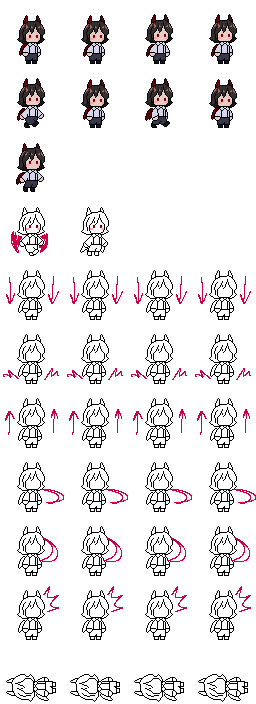
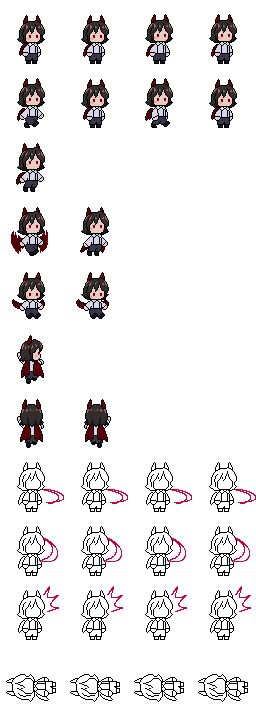
final classes, better player animations

diff --git a/src/entities/Player.java b/src/entities/Player.java
@@ -118,11 +118,10 @@ public class Player extends MovingEntity implements Attackable {
 				} else {
 					setAnimation(JUMPING2);
 				}
-			} else {
-				setAnimation(FALLING);
-			}
+			} else setAnimation(FALLING);
 		} else if (climbing) {
-			setAnimation(CLIMBING);
+			if (moving)setAnimation(CLIMBING);
+			else setAnimation(ON_LADDER);
 		} else if (moving) {
 			setAnimation(RUNNING);
 		} else {

diff --git a/src/entities/EntityConstants.java b/src/entities/EntityConstants.java
@@ -12,9 +12,9 @@ public class EntityConstants {
 		RUNNING(1, 4, true),
 		JUMPING(2, 1, false),
 		JUMPING2(3, 2, false),
-		FALLING(4, 1, false),
-		HIT_GROUND(5, 1, false),
-		CLIMBING(6, 1, false),
+		FALLING(4, 2, true),
+		ON_LADDER(5, 1, false),
+		CLIMBING(6, 2, true),
 		ATTACK(7, 2, false),
 		ATTACK_AIR(8, 4, false),
 		ATTACKED(9, 2, false),

diff --git a/src/levels/LevelManager.java b/src/levels/LevelManager.java
@@ -9,7 +9,7 @@ import java.util.ArrayList;
 import inputsAndResourceLoader.ResourceLoader;
 import static main.Game.TILES_SIZE;
 
-public class LevelManager {
+public final class LevelManager {
 	private Playing playing;
 	private BufferedImage[] tiles;
 	private List<Level> levels;

diff --git a/src/entities/EntityManager.java b/src/entities/EntityManager.java
@@ -7,7 +7,7 @@ import java.util.List;
 import main.Game;
 import gamestates.Playing;
 
-public class EntityManager {
+public final class EntityManager {
 	private Playing playing;
 	private List<Integer> entityData;
 	private int levelWidth;

diff --git a/src/inputsAndResourceLoader/ResourceLoader.java b/src/inputsAndResourceLoader/ResourceLoader.java
@@ -13,7 +13,7 @@ import javax.imageio.ImageIO;
 
 import levels.LevelData;
 
-public class ResourceLoader {
+public final class ResourceLoader {
 	
 	public static class SpriteSheet {
 		private String fileName;
